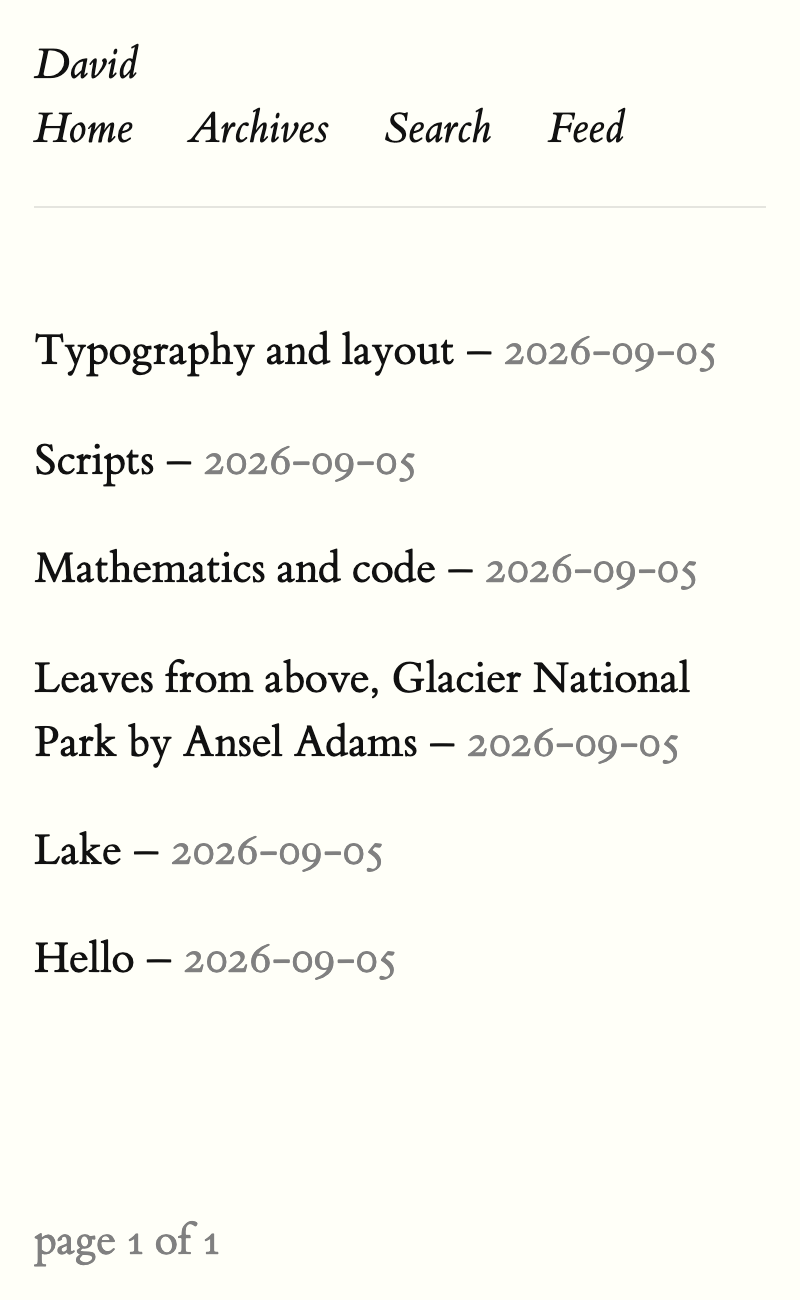
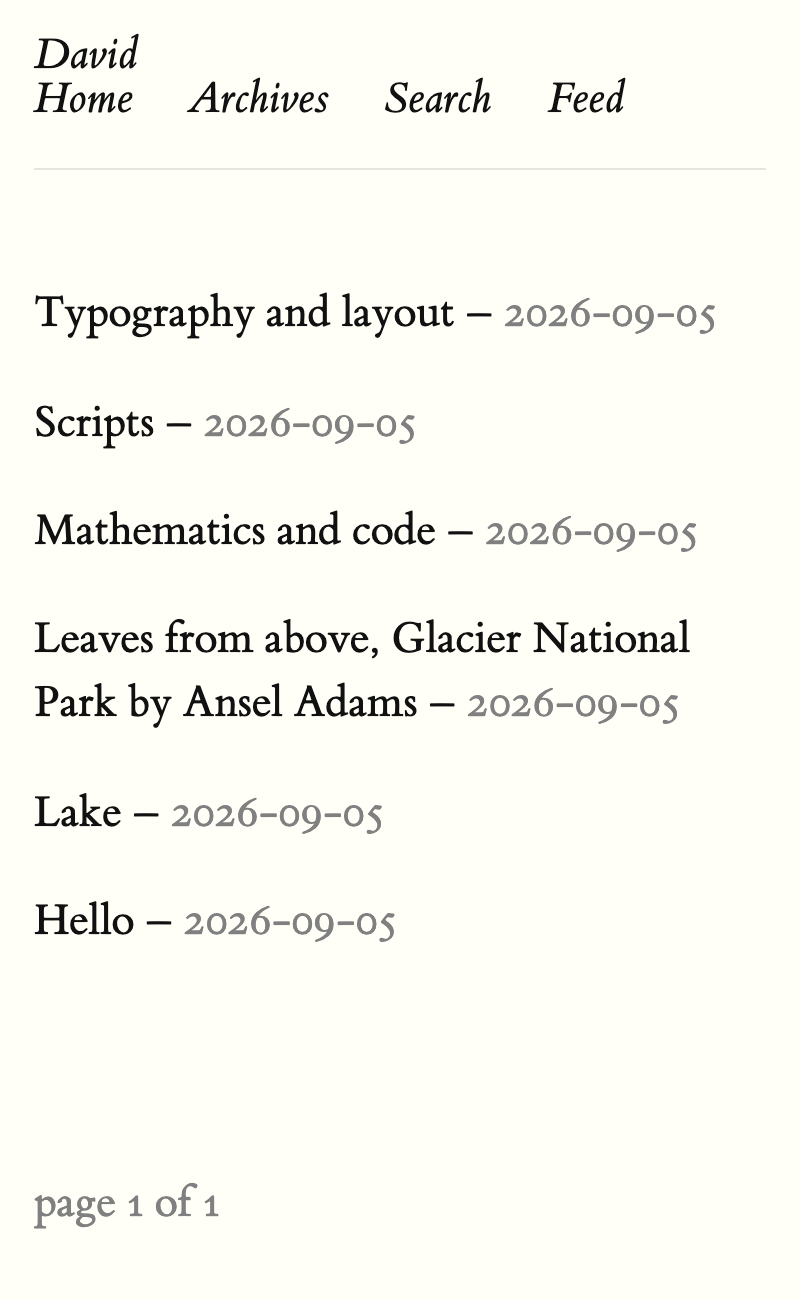
Improve template Journal

diff --git a/app/templates/source/journal/style.css b/app/templates/source/journal/style.css
@@ -75,15 +75,28 @@ text-decoration:underline;
 
 a:hover {text-decoration: underline}
 
+.site-header {
+  display: flex;
+  align-items: center;
+  justify-content: space-between;
+}
+
 .logo, .nav {
 font-style: italic;
 font-size:1.4rem;
+line-height: 1;
 }
 
-.logo {float: left; text-decoration: none}
+.logo {text-decoration: none}
 
-.nav {float: right; text-decoration: none}
-.nav a {margin: 0 0 0 2em; text-decoration: none}
+.nav {
+  display: flex;
+  align-items: center;
+  text-decoration: none;
+}
+.nav a {margin: 0 0 0 2em; text-decoration: none; line-height: 1;}
+
+.index-date {white-space: nowrap}
 
 .small, .light {color: {{text_color}}}
 
@@ -173,6 +186,7 @@ input[type="submit"] {
 @media screen and (max-width: 900px) {
   .index .margin {display: block;width: 100%}
   .container {margin: 1em 0 2em;padding-top:1.5em;border-top:1px solid rgba(0,0,0,0.1);min-width: auto}
+  .site-header {flex-wrap: wrap}
   .nav {float: none;display: block;margin: 0;width: 100%}
   .nav a {margin: 0 1em 0 0;color:{{text_color}};}
   

diff --git a/app/templates/source/journal/entries.html b/app/templates/source/journal/entries.html
@@ -9,14 +9,13 @@
       <p>
 
         <a class="first" href="{{{url}}}">{{title}}</a>
-        –
-        <span class="light">{{date}}</span>
+        <span class="index-date">– <span class="light">{{date}}</span></span>
 <!--                  {{#tags.length}}
             {{#tags}}
             / <a class="light" href="/tagged/{{slug}}">{{name}}</a>
             {{/tags}}
           {{/tags.length}}
---!>
+-->
       </p>
       {{/posts}}
 

diff --git a/app/templates/source/journal/header.html b/app/templates/source/journal/header.html
@@ -1,6 +1,8 @@
-<a href="/" title="" class="logo">{{title}}</a>&nbsp;&nbsp;
-<div class="nav">
-  {{#menu}}
-  <a href="{{{url}}}" title="{{label}}">{{label}}</a>
-  {{/menu}}
-</div>
+<header class="site-header">
+  <a href="/" title="" class="logo">{{title}}</a>
+  <div class="nav">
+    {{#menu}}
+    <a href="{{{url}}}" title="{{label}}">{{label}}</a>
+    {{/menu}}
+  </div>
+</header>
